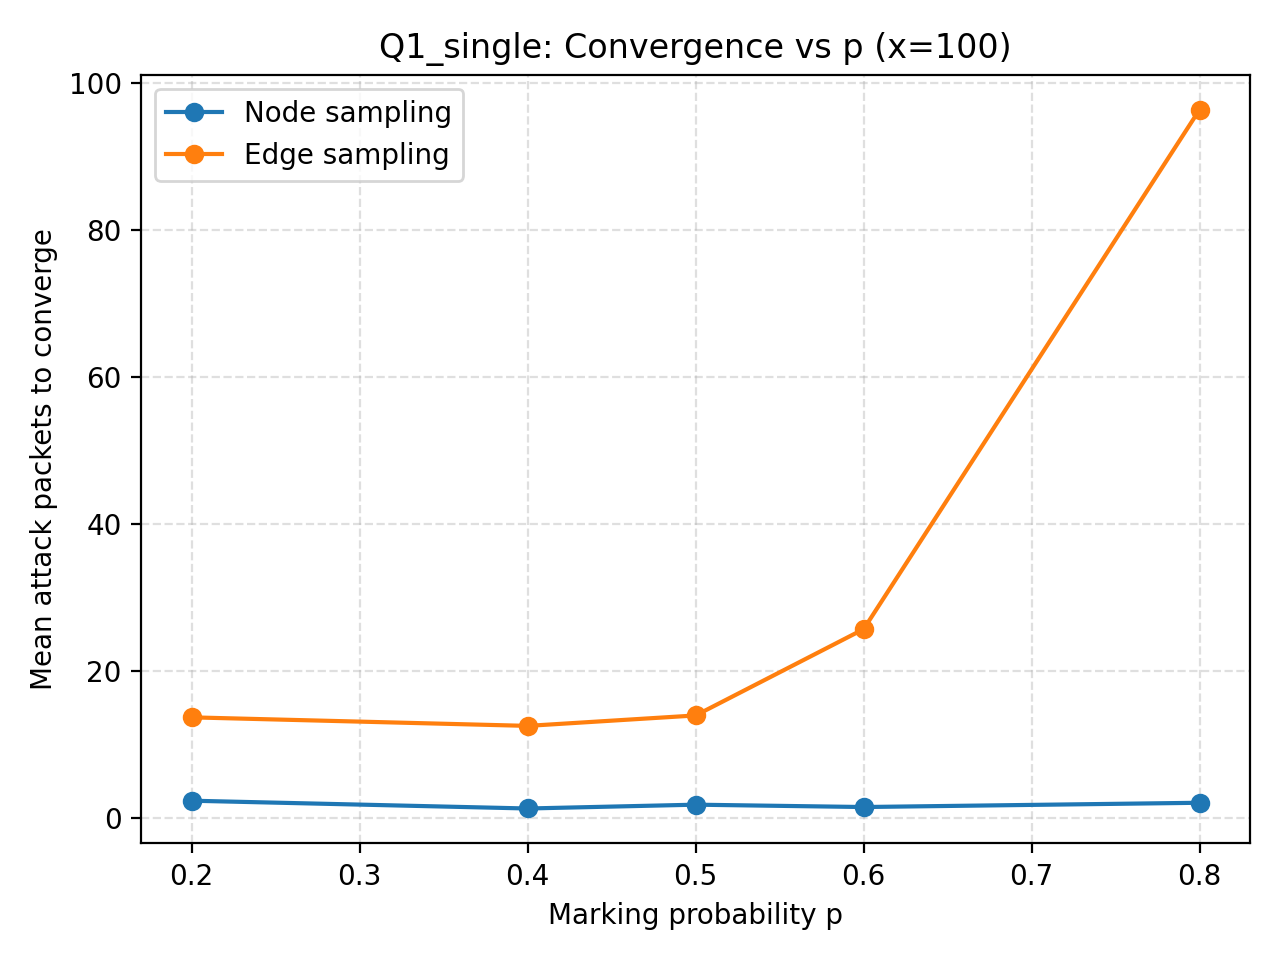
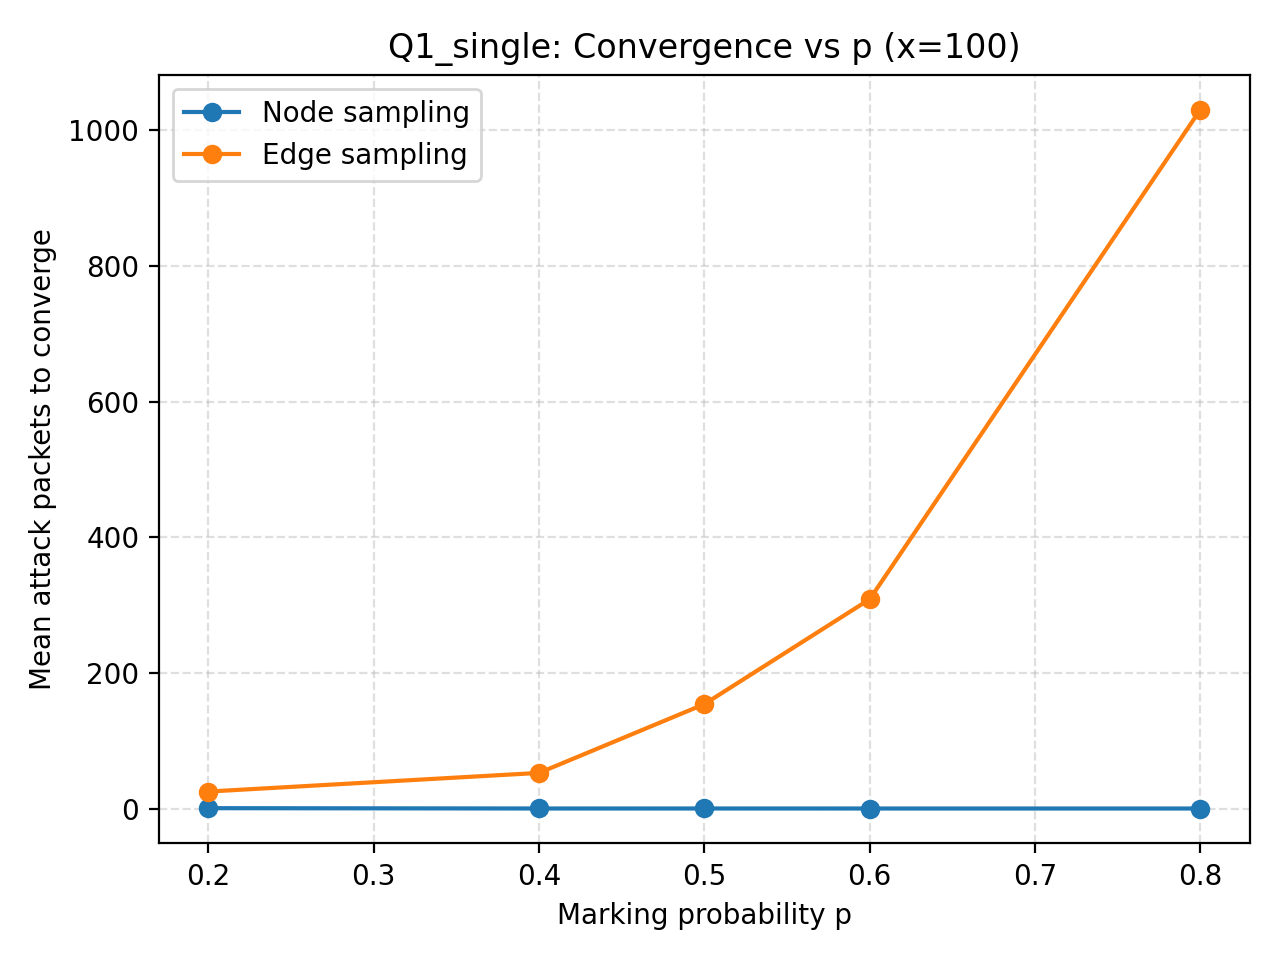
Added a 'deeper' topology

diff --git a/ppm_traceback/src/experiment.py b/ppm_traceback/src/experiment.py
@@ -5,7 +5,7 @@ from src.ppm import (
     choose_hosts,
     NodeSampler, EdgeSampler,
     node_reconstruct_order, node_guess_attacker_leaf,
-    edges_by_distance, edge_reconstruct_path,
+    # edges_by_distance, edge_reconstruct_path,
     node_guess_two_attackers,
     edge_build_pruned_graph, edge_guess_attackers_from_graph, edge_guess_single_attacker_from_graph,
 )

diff --git a/ppm_traceback/src/main.py b/ppm_traceback/src/main.py
@@ -51,7 +51,7 @@ def plot_convergence(results, title_prefix: str):
         plt.savefig(PLOT_DIR /f"{title_prefix}_convergence_x{x}.png", dpi=200)
 
 def main():
-    G = load_topology("data/topology1.txt")
+    G = load_topology("data/topology2.txt")
     validate_tree_topology(G)
 
     results1 = run_grid_one_attacker(G, P_VALUES, X_VALUES, trials=50, seed=123)
